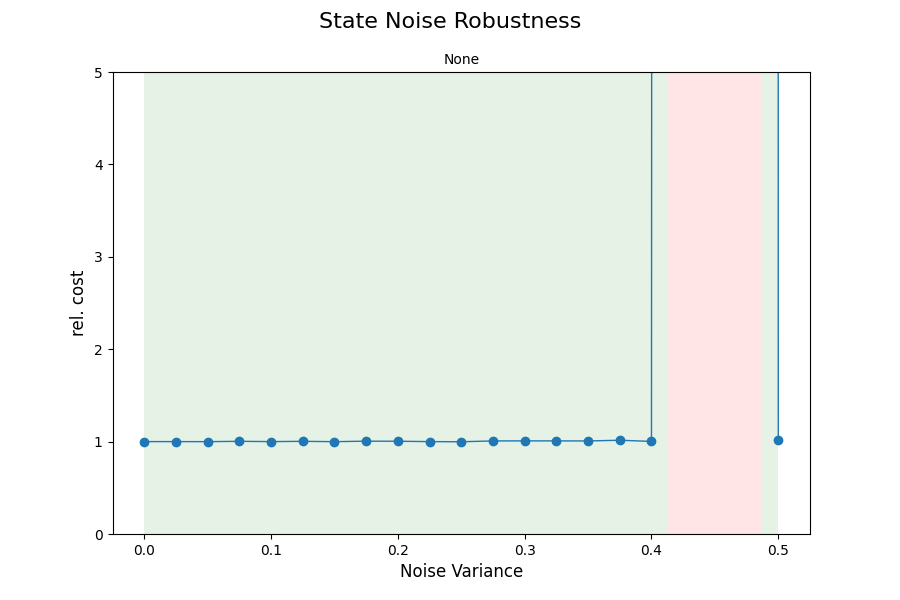
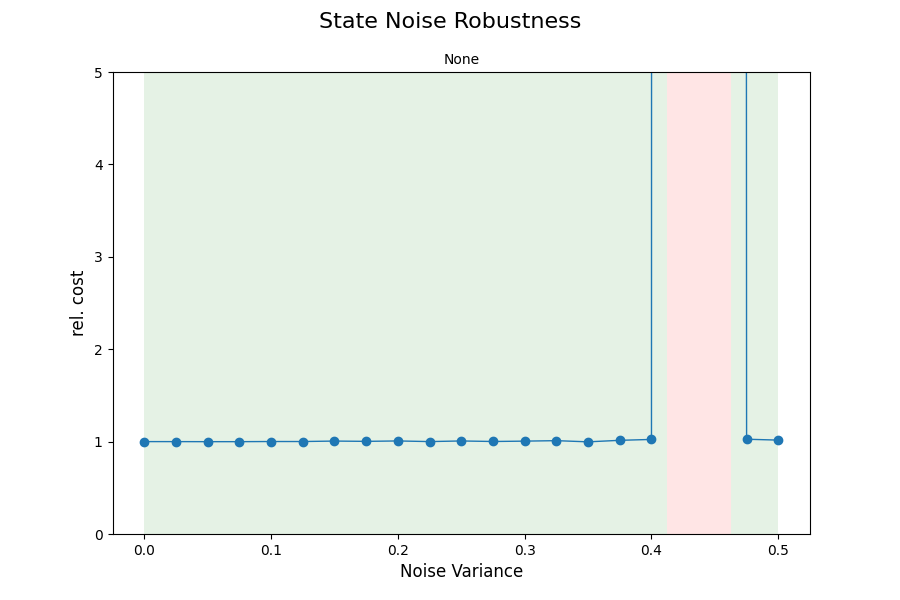
Added MC-PILCO policies for benchmarks (2).

diff --git a/leaderboard/robustness/acrobot/con_mcpilco.py b/leaderboard/robustness/acrobot/con_mcpilco.py
@@ -35,7 +35,7 @@ T_sym = 0.002
 
 # controller parameters
 ctrl_rate = int(T_control/T_sym)
-u_max = torque_limit[1] * .47
+u_max = torque_limit[1] * .7
 n_dof = 2
 controlled_joint = [1]
 switch_stabilization = True
@@ -47,16 +47,16 @@ controller = Controller_sum_of_Gaussians_with_angles_numpy(parameters, ctrl_rate
 
 if switch_stabilization:
     stabilization_controller = LQRController_nonsymbolic(model_pars=mpar)
-    Q = np.diag((0.97, 0.93, 0.39, 0.26))
-    R = np.diag((0.11, 0.11))
-    # stabilization_controller.set_cost_parameters(u2u2_cost=100, p1p1_cost=100, p2p2_cost=100)
-    stabilization_controller.set_cost_matrices(Q=Q, R=R)
+    # Q = np.diag((0.97, 0.93, 0.39, 0.26))
+    # R = np.diag((0.11, 0.11))
+    # stabilization_controller.set_cost_matrices(Q=Q, R=R)
+    stabilization_controller.set_cost_parameters(u2u2_cost=100, p1p1_cost=100, p2p2_cost=100)
     stabilization_controller.set_parameters(failure_value=0., cost_to_go_cut=10 ** 3)
     condition_policy = lambda t, x: abs(x[0]) < 2.7 #abs(x[0]) - np.pi > 0.1 or abs(x[1]) > 0.1
-    condition_stabilization = lambda t, x: abs(x[0]) > 2.8
+    condition_stabilization = lambda t, x: abs(x[0]) > 2.75
     comb_controller = CombinedController(controller1=controller, controller2=stabilization_controller,
                                          condition1=condition_policy, condition2=condition_stabilization,
-                                         verbose=True)
+                                         verbose=False)
     controller = comb_controller
 
 controller.set_goal(goal)

diff --git a/leaderboard/simulation/acrobot/con_mcpilco.py b/leaderboard/simulation/acrobot/con_mcpilco.py
@@ -35,7 +35,7 @@ T_sym = 0.002
 
 # controller parameters
 ctrl_rate = int(T_control/T_sym)
-u_max = torque_limit[1] * .7
+u_max = torque_limit[1] * .47
 n_dof = 2
 controlled_joint = [1]
 switch_stabilization = True
@@ -53,10 +53,10 @@ if switch_stabilization:
     stabilization_controller.set_cost_parameters(u2u2_cost=100, p1p1_cost=100, p2p2_cost=100)
     stabilization_controller.set_parameters(failure_value=0., cost_to_go_cut=10 ** 3)
     condition_policy = lambda t, x: abs(x[0]) < 2.7 #abs(x[0]) - np.pi > 0.1 or abs(x[1]) > 0.1
-    condition_stabilization = lambda t, x: abs(x[0]) > 2.75
+    condition_stabilization = lambda t, x: abs(x[0]) > 2.8
     comb_controller = CombinedController(controller1=controller, controller2=stabilization_controller,
                                          condition1=condition_policy, condition2=condition_stabilization,
-                                         verbose=True)
+                                         verbose=False)
     controller = comb_controller
 
 controller.set_goal(goal)

diff --git a/src/python/double_pendulum/controller/mcpilco/mcpilco_controller.py b/src/python/double_pendulum/controller/mcpilco/mcpilco_controller.py
@@ -22,7 +22,7 @@ class Controller_sum_of_Gaussians_with_angles_numpy(AbstractController):
     def get_control_output(self, meas_pos, meas_vel, meas_tau, meas_time):
         if self.ctrl_cnt % self.ctrl_rate == 0:
             x = np.zeros((self.num_dof * 3))  # velocities, cos, sin
-            print(meas_vel)
+            # print(meas_vel)
             x[:self.num_dof] = meas_vel
             x[self.num_dof:2*self.num_dof] = np.cos(meas_pos)
             x[2 * self.num_dof:] = np.sin(meas_pos)

diff --git a/leaderboard/robustness/pendubot/con_mcpilco.py b/leaderboard/robustness/pendubot/con_mcpilco.py
@@ -61,7 +61,7 @@ else:
 
 comb_controller = CombinedController(controller1=controller, controller2=stabilization_controller,
                                      condition1=condition_policy, condition2=condition_stabilization,
-                                     verbose=True)
+                                     verbose=False)
 controller = comb_controller
 
 controller.set_goal(goal)

diff --git a/leaderboard/simulation/pendubot/con_mcpilco.py b/leaderboard/simulation/pendubot/con_mcpilco.py
@@ -61,7 +61,7 @@ else:
 
 comb_controller = CombinedController(controller1=controller, controller2=stabilization_controller,
                                      condition1=condition_policy, condition2=condition_stabilization,
-                                     verbose=True)
+                                     verbose=False)
 controller = comb_controller
 
 controller.set_goal(goal)
